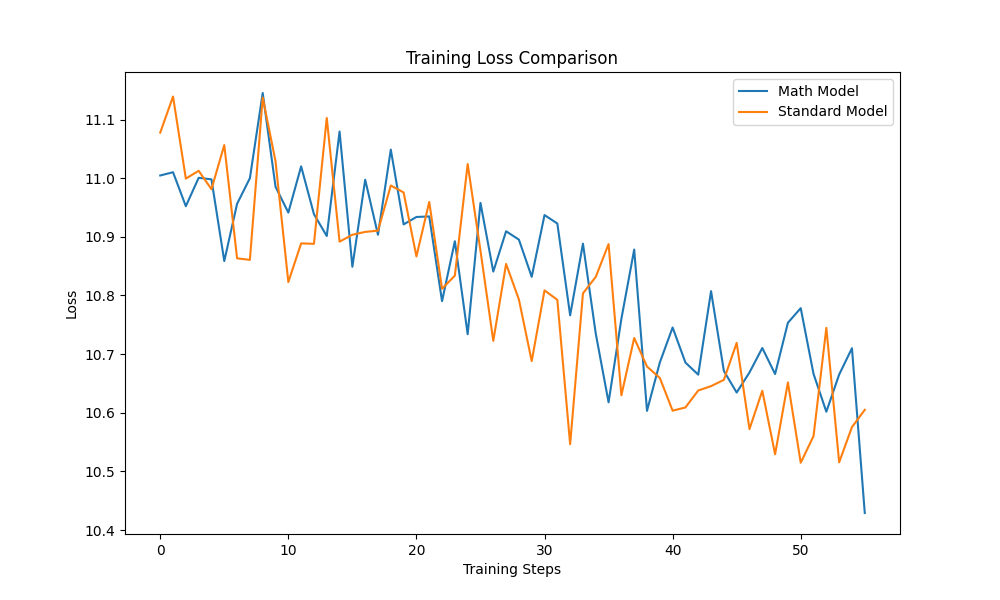
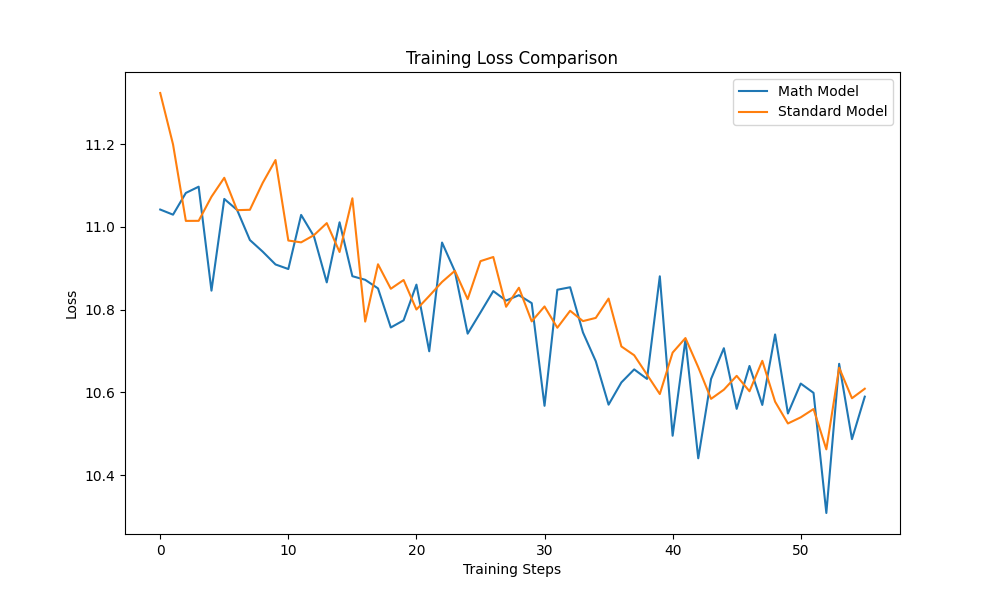
added gradient to special block

diff --git a/mathLayer.py b/mathLayer.py
@@ -55,7 +55,7 @@ FULL_CONFIG = ModelConfig(
     LEARNING_RATE=3e-4,
     NUM_TRAIN_STEPS=50000,
     LOG_INTERVAL=50,
-    DATASET_SIZE=20000  # Larger dataset for full training
+    DATASET_SIZE=80000  # Larger dataset for full training
 )
 
 # Select config based on LOCAL_TESTING flag
@@ -80,12 +80,14 @@ DATASET_SIZE = CONFIG.DATASET_SIZE
 
 class MathematicalOperatorBlock(nn.Module):
     """
-    A non-trainable block that applies fixed mathematical operations.
-    It splits the input features, performs operations, and returns the result.
+    Previously gradients were blocked with torch.no_grad(), making this
+    addition almost inert for learning. Now gradients flow. A single
+    scalar gate lets the network learn to suppress the block.
     """
     def __init__(self):
         super().__init__()
-        # This module has no parameters, so no training will occur within it.
+        # Gate (trainable); initialized near 0 so model can opt-in gradually.
+        self.gate = nn.Parameter(torch.zeros(1))
 
     def forward(self, x):
         """
@@ -102,18 +104,19 @@ class MathematicalOperatorBlock(nn.Module):
         # --- Perform fixed mathematical operations ---
         # These operations are deterministic and have no weights.
         # Gradients will flow through them, but there's nothing here to update.
-        with torch.no_grad(): # Explicitly state no gradient calculations for weights (there are none)
-            op1_add = chunk1 + chunk2
-            op2_sub = chunk1 - chunk2
-            op3_mul = chunk1 * chunk3
+        op1_add = chunk1 + chunk2          # linear mix
+        op2_sub = chunk1 - chunk2          # contrast
+        op3_mul = chunk1 * chunk3          # quadratic interaction
+        op4_const = torch.full_like(chunk1, 0.5)  # constant bias channel
 
-            # We'll just use a constant for the fourth operation for simplicity
-            op4_const = torch.ones_like(chunk1) * 0.5
-
-        # Concatenate the results back together
         result = torch.cat([op1_add, op2_sub, op3_mul, op4_const], dim=-1)
 
-        return result
+        # Normalize to avoid blowing up residual variance after concat.
+        result = result - result.mean(dim=-1, keepdim=True)
+        result = result / (result.std(dim=-1, keepdim=True) + 1e-6)
+
+        # Apply small gate (sigmoid keeps it in [0,1])
+        return torch.sigmoid(self.gate) * result
 
 # --- 2. Core Transformer Components ---
 
